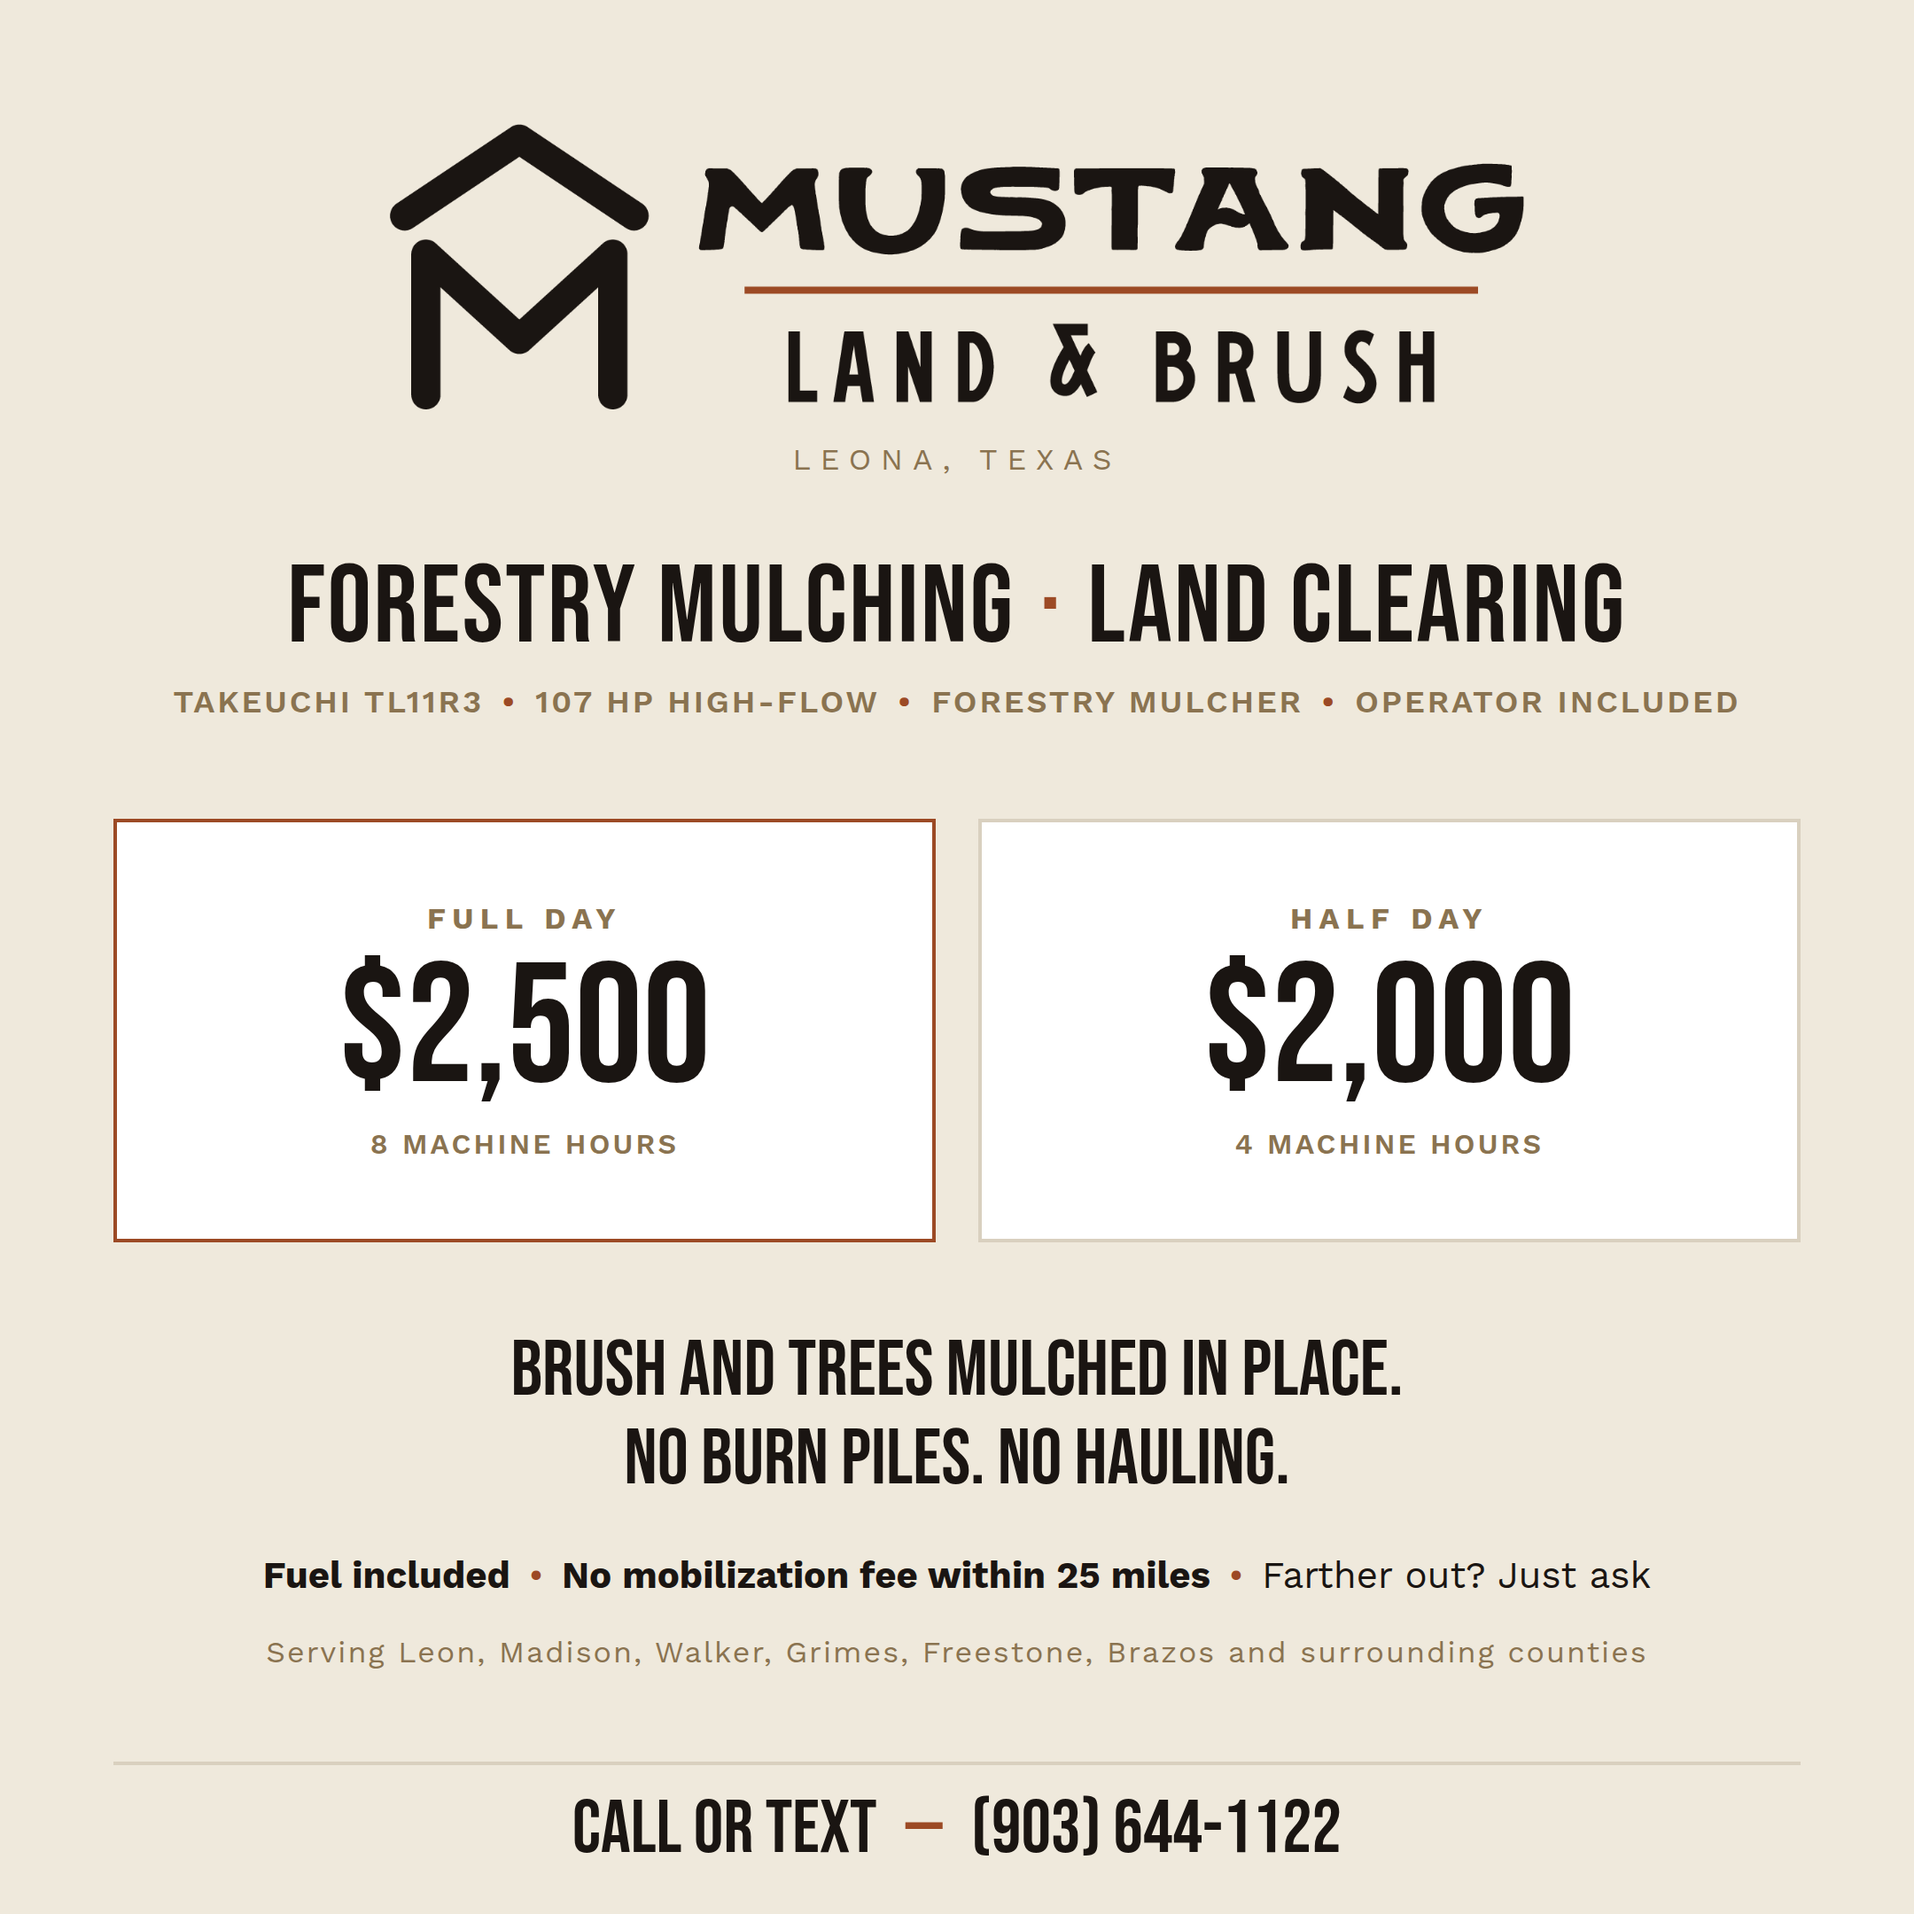
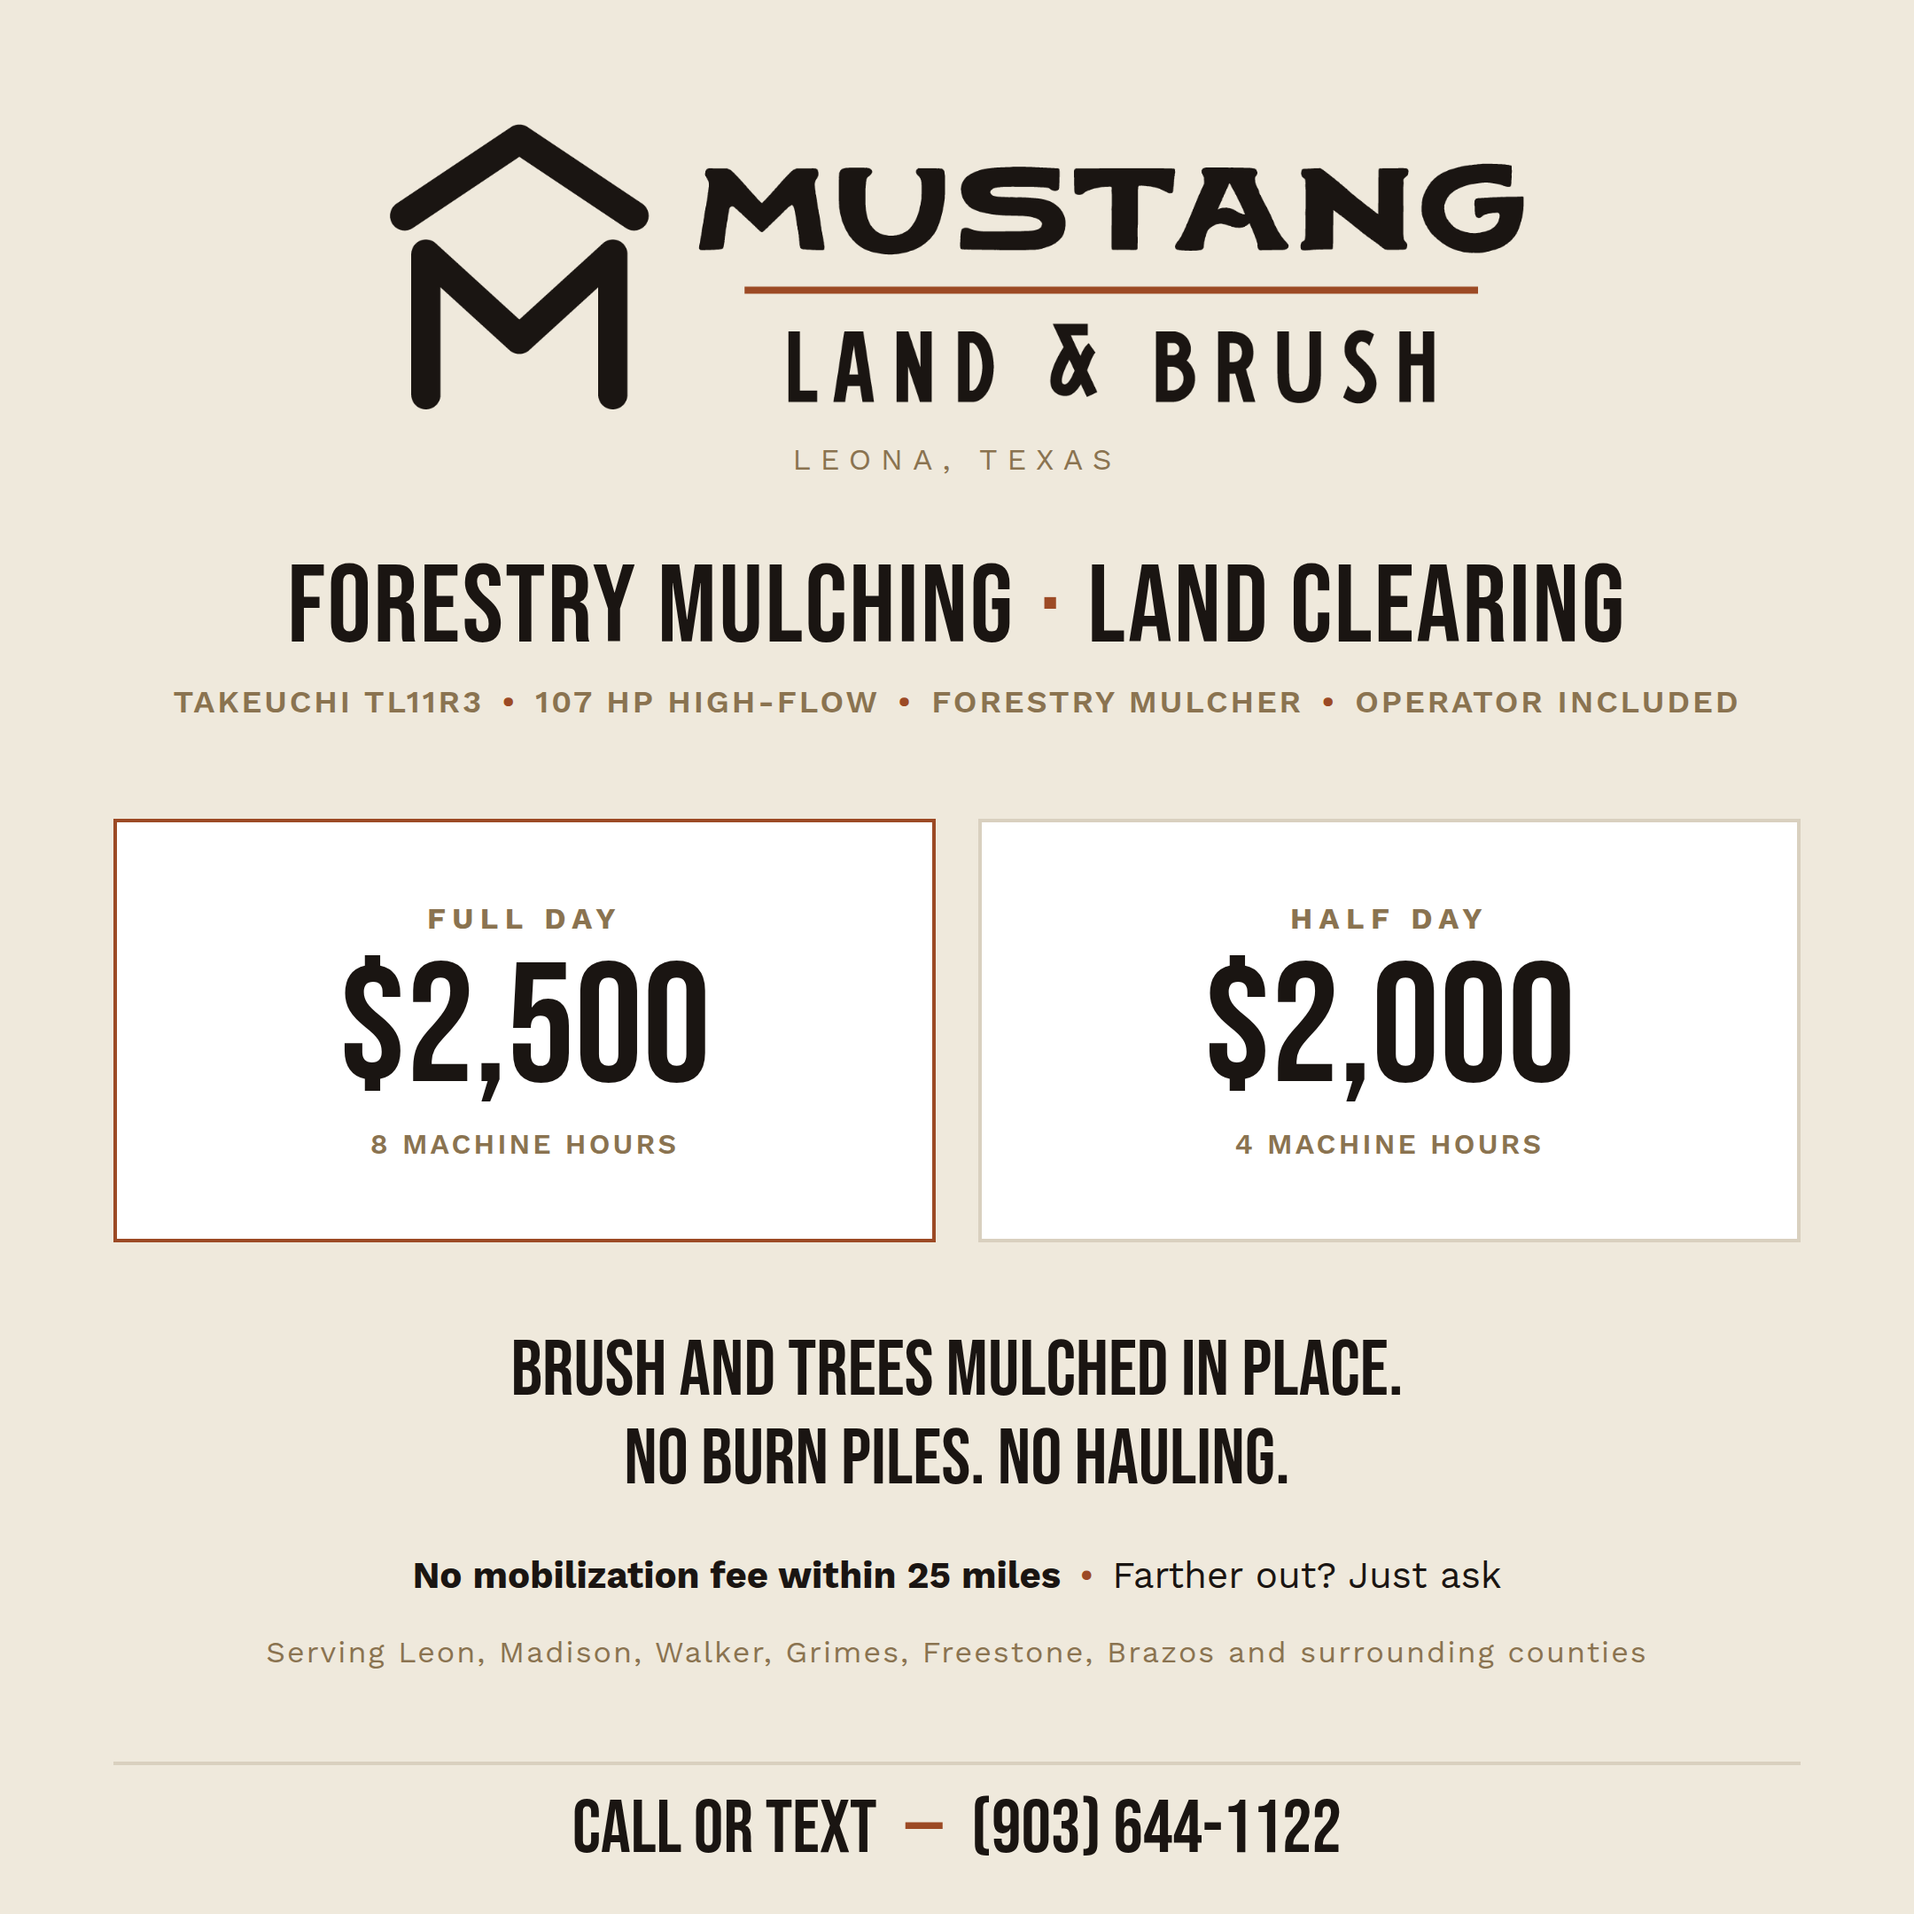
Mustang cards: remove fuel line
Claude-Session: https://claude.ai/code/session_01MjBdAn1tqXy1S9X7E6qMHj

Changed region(s): [[0.1241, 0.8065, 0.8685, 0.8375]]

diff --git a/marketing/mustang/mustang-card.html b/marketing/mustang/mustang-card.html
@@ -42,7 +42,7 @@ html,body{width:1080px;height:1080px;background:var(--bg);color:var(--bone);font
   </div>
   <div class="terms">
     <span class="result">Brush and trees mulched in place.<br>No burn piles. No hauling.</span><br>
-        <b>Fuel included</b><span class="dot">•</span><b>No mobilization fee within 25 miles</b><span class="dot">•</span>Farther out? Just ask<br>
+        <b>No mobilization fee within 25 miles</b><span class="dot">•</span>Farther out? Just ask<br>
     <span class="muted">Serving Leon, Madison, Walker, Grimes, Freestone, Brazos and surrounding counties</span>
   </div>
   <div class="cta bebas">MESSAGE WITH YOUR DATES<span class="sep">—</span>FAST QUOTE</div>

diff --git a/marketing/mustang/mustang-card-phone.html b/marketing/mustang/mustang-card-phone.html
@@ -42,7 +42,7 @@ html,body{width:1080px;height:1080px;background:var(--bg);color:var(--bone);font
   </div>
   <div class="terms">
     <span class="result">Brush and trees mulched in place.<br>No burn piles. No hauling.</span><br>
-        <b>Fuel included</b><span class="dot">•</span><b>No mobilization fee within 25 miles</b><span class="dot">•</span>Farther out? Just ask<br>
+        <b>No mobilization fee within 25 miles</b><span class="dot">•</span>Farther out? Just ask<br>
     <span class="muted">Serving Leon, Madison, Walker, Grimes, Freestone, Brazos and surrounding counties</span>
   </div>
   <div class="cta bebas">CALL OR TEXT<span class="sep">—</span>(903) 644-1122</div>
